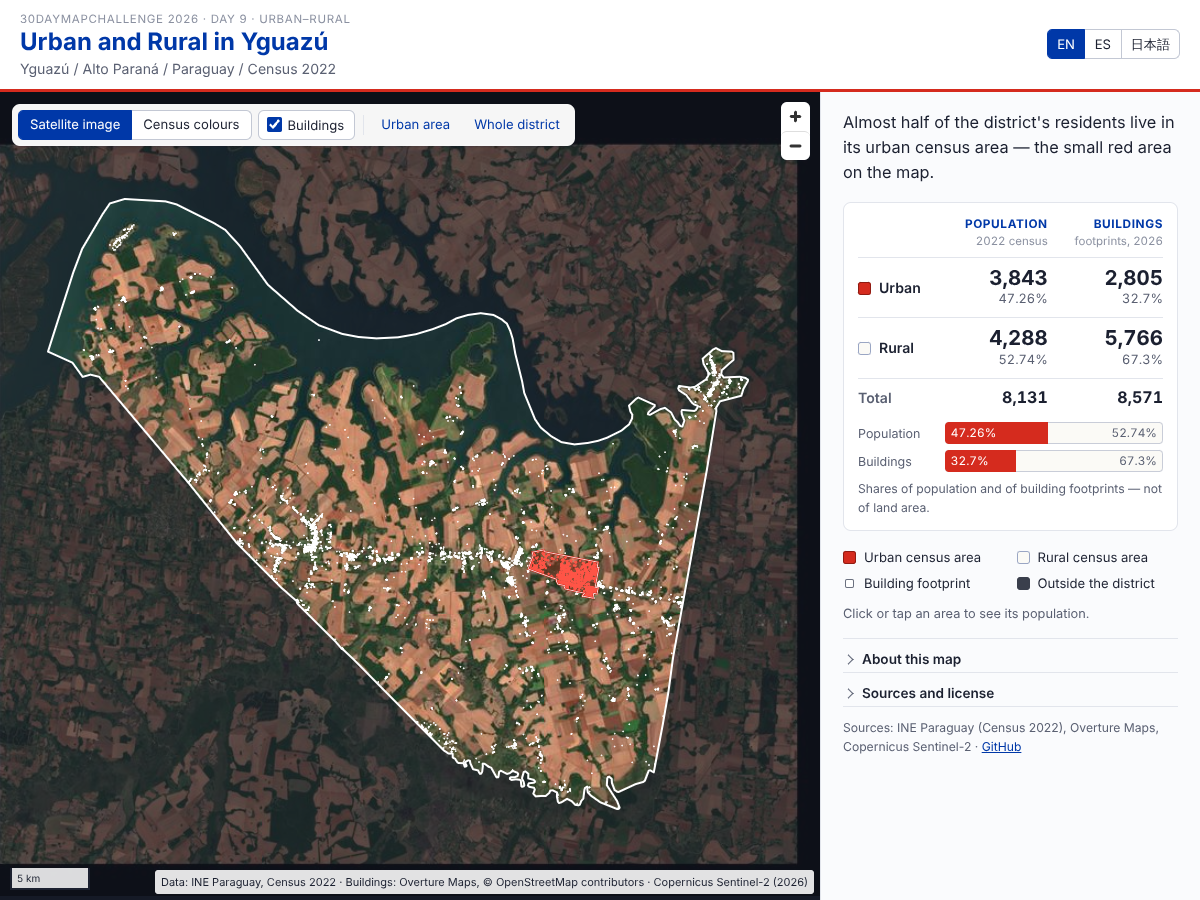
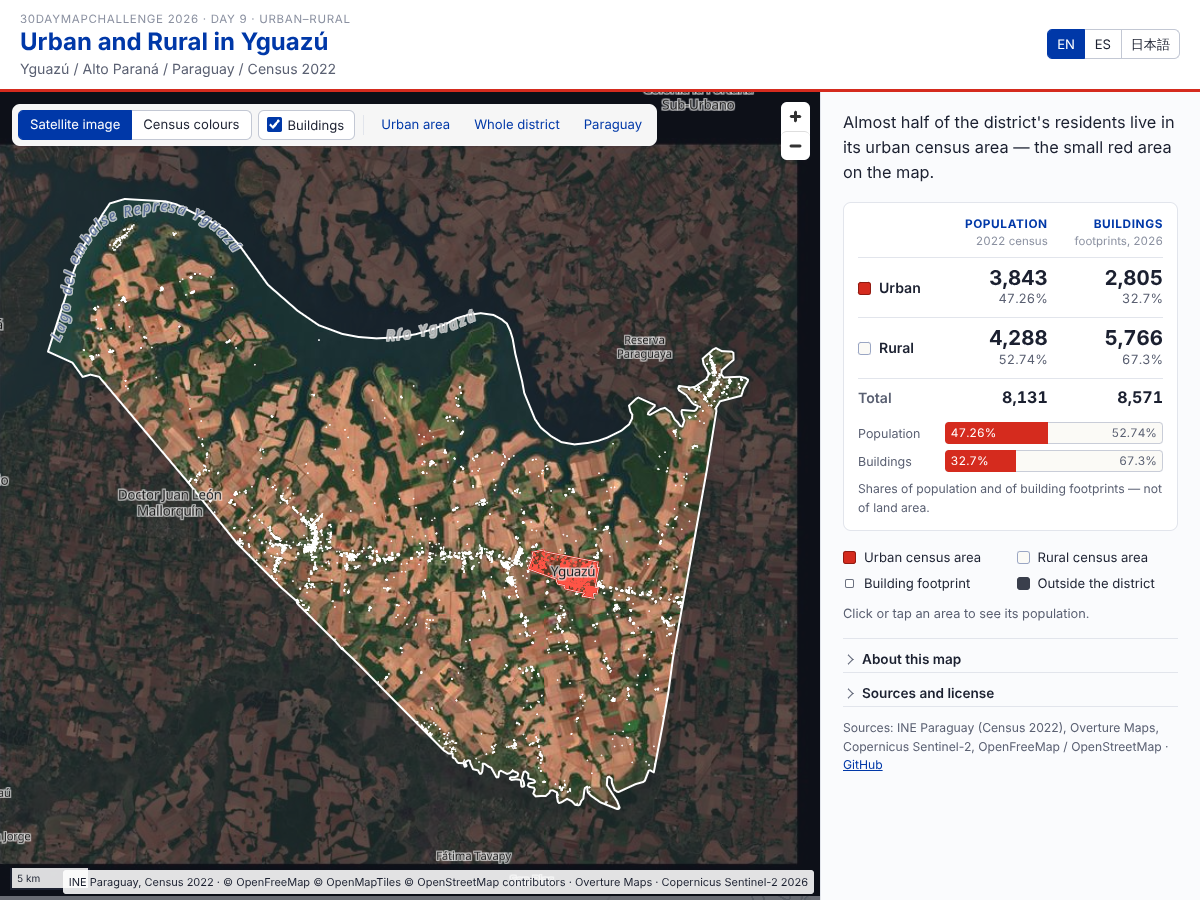
OpenFreeMapの背景地図を追加し、パラグアイ全体での位置を確認できるようにする
OpenStreetMapベースのPositronスタイルを背景に表示し、地名ラベルを自前の層の
上に置く。区分の色表示では農村区域を半透明にし、地区外を淡くする。パラグアイ
全体に引くボタンと位置の印を追加。背景地図が読めない場合は背景なしで続ける。
クレジットを短くし、README・画面キャプチャを更新。

diff --git a/src/main.ts b/src/main.ts
@@ -31,6 +31,11 @@ const C = {
   satUrbanBuilding: "#ff5446",
 };
 const SATELLITE_TILES = `${new URL(import.meta.env.BASE_URL, location.href).href}tiles/s2-20260926/{z}/{x}/{y}.jpg`;
+// 背景地図：OpenFreeMap の Positron（OpenStreetMap ベース、APIキー不要）
+const BASEMAP_STYLE = "https://tiles.openfreemap.org/styles/positron";
+let basemapOk = false;
+// パラグアイ全体の範囲（位置確認用）
+const PARAGUAY_BOUNDS: LngLatBoundsLike = [[-62.65, -27.61], [-54.26, -19.29]];
 // タイルを作った範囲（地区の外接矩形 + 0.03°）
 const SATELLITE_BOUNDS: [number, number, number, number] = [-55.359, -25.6235, -54.8615, -25.2185];
 
@@ -184,7 +189,7 @@ const map = new maplibregl.Map({
   },
   center: [-55.11, -25.42],
   zoom: 9,
-  minZoom: 7,
+  minZoom: 4.5,
   maxZoom: 17,
   attributionControl: false,
   dragRotate: false,
@@ -212,7 +217,9 @@ function renderCredit() {
   if (!creditEl) return;
   const s = t();
   const parts = [s.attribution];
-  if (showBuildings && buildings) parts.push(s.attrBuildings);
+  if (basemapOk) parts.push(s.attrBasemap);
+  // OpenStreetMap の表記は背景地図の表記に含まれるので、建物では重ねて書かない
+  if (showBuildings && buildings) parts.push(basemapOk ? s.attrBuildingsShort : s.attrBuildings);
   if (view === "satellite") parts.push(s.attrSatellite);
   creditEl.textContent = parts.join(" · ");
 }
@@ -287,14 +294,19 @@ function applyView() {
   if (!map.getLayer("area-fill")) return;
   const sat = view === "satellite";
   map.setLayoutProperty("satellite", "visibility", sat ? "visible" : "none");
-  map.setLayoutProperty("outside-mask", "visibility", sat ? "visible" : "none");
-  // 衛星写真の範囲外は暗い地にして、画像の端が目立たないようにする
-  map.setPaintProperty("bg", "background-color", sat ? "#151a26" : C.outside);
+  map.setLayoutProperty("outside-mask", "visibility", "visible");
+  // 地区外のマスク：衛星写真では暗く、区分の色では背景地図を淡くかすませる
+  map.setPaintProperty("outside-mask", "fill-color", sat ? "#151a26" : "#c4c8d2");
+  map.setPaintProperty("outside-mask", "fill-opacity", sat ? 0.62 : basemapOk ? 0.35 : 0);
   map.setPaintProperty("area-fill", "fill-color", ["case", isUrban, C.red, C.rural]);
+  // 区分の色：背景地図があれば農村を半透明にして、道路や貯水池が透けて見えるようにする
+  const ruralOpacity = basemapOk ? 0.62 : 1;
   map.setPaintProperty(
     "area-fill",
     "fill-opacity",
-    sat ? ["case", isUrban, ["case", isSelected, 0.45, 0.3], ["case", isSelected, 0.18, 0]] : 1,
+    sat
+      ? ["case", isUrban, ["case", isSelected, 0.45, 0.3], ["case", isSelected, 0.18, 0]]
+      : ["case", isUrban, 1, ["case", isSelected, Math.min(1, ruralOpacity + 0.2), ruralOpacity]],
   );
   map.setPaintProperty("area-line", "line-color", ["case", isUrban, sat ? C.red : C.redDark, sat ? "#ffffff" : C.ruralLine]);
   map.setPaintProperty("district-outline", "line-color", sat ? "#ffffff" : C.blue);
@@ -340,8 +352,34 @@ function buildingPoints(b: BuildingCollection): GeoJSON.FeatureCollection<GeoJSO
   };
 }
 
+// 背景地図のスタイルを読み込む。失敗したら背景なしの地図で続ける（国勢調査の地図は表示する）
+async function loadBasemap(): Promise<void> {
+  const loaded = () => new Promise<void>((res) => (map.loaded() ? res() : map.once("load", () => res())));
+  try {
+    const res = await fetch(BASEMAP_STYLE, { signal: AbortSignal.timeout(10000) });
+    if (!res.ok) throw new Error(`HTTP ${res.status}`);
+    const style = await res.json();
+    await loaded();
+    const styled = new Promise<void>((r) => map.once("style.load", () => r()));
+    map.setStyle(style);
+    await styled;
+    // 背景地図の建物は Overture の建物と重複するので隠す
+    if (map.getLayer("building")) map.setLayoutProperty("building", "visibility", "none");
+    basemapOk = true;
+  } catch (e) {
+    console.warn("Basemap unavailable; continuing without it", e);
+    await loaded();
+  }
+}
+
+// 自前の層は背景地図のラベルより下に入れ、地名が読めるようにする
+let labelsBelow: string | undefined;
+function addLayer(layer: maplibregl.AddLayerObject) {
+  map.addLayer(layer, labelsBelow);
+}
+
 async function start() {
-  const mapReady = new Promise<void>((res) => (map.loaded() ? res() : map.once("load", () => res())));
+  const mapReady = loadBasemap();
   const buildingsPromise = loadBuildings().catch((e) => {
     console.error(e);
     buildingError = e;
@@ -363,7 +401,8 @@ async function start() {
   const urban: AreaCollection = { ...areas, features: areas.features.filter((f) => f.properties.area_type === "urban") };
   const [uw, us, ue, un] = bboxOf(urban);
   urbanBounds = [[uw, us], [ue, un]];
-  map.setMaxBounds([[w - 0.6, s - 0.45], [e + 0.6, n + 0.45]]);
+  map.setMaxBounds([[-66, -30.5], [-51, -16.5]]);
+  labelsBelow = map.getStyle().layers.find((l) => l.type === "symbol")?.id;
 
   map.addSource("satellite", {
     type: "raster",
@@ -373,9 +412,9 @@ async function start() {
     maxzoom: 14,
     bounds: SATELLITE_BOUNDS,
   });
-  map.addLayer({ id: "satellite", type: "raster", source: "satellite", layout: { visibility: "none" } });
+  addLayer({ id: "satellite", type: "raster", source: "satellite", layout: { visibility: "none" } });
   map.addSource("mask", { type: "geojson", data: outsideMask(areas) });
-  map.addLayer({
+  addLayer({
     id: "outside-mask",
     type: "fill",
     source: "mask",
@@ -383,12 +422,12 @@ async function start() {
     paint: { "fill-color": "#151a26", "fill-opacity": 0.62 },
   });
   map.addSource("areas", { type: "geojson", data: areas });
-  map.addLayer({ id: "area-fill", type: "fill", source: "areas", paint: { "fill-color": C.rural } });
+  addLayer({ id: "area-fill", type: "fill", source: "areas", paint: { "fill-color": C.rural } });
   map.addSource("buildings", { type: "geojson", data: { type: "FeatureCollection", features: [] } });
   // 建物：拡大時は輪郭、広域では小さすぎて見えないため点で分布を示す
-  map.addLayer({ id: "buildings", type: "fill", source: "buildings", minzoom: 12.5, paint: { "fill-color": C.buildingRural } });
+  addLayer({ id: "buildings", type: "fill", source: "buildings", minzoom: 12.5, paint: { "fill-color": C.buildingRural } });
   map.addSource("building-points", { type: "geojson", data: { type: "FeatureCollection", features: [] } });
-  map.addLayer({
+  addLayer({
     id: "building-points",
     type: "circle",
     source: "building-points",
@@ -398,7 +437,7 @@ async function start() {
       "circle-color": C.buildingRural,
     },
   });
-  map.addLayer({
+  addLayer({
     id: "area-line",
     type: "line",
     source: "areas",
@@ -418,16 +457,37 @@ async function start() {
   });
   // 地区の外周（都市・農村の共有辺を除いた線＝地区界）
   map.addSource("outline", { type: "geojson", data: districtOutline(areas) });
-  map.addLayer({
+  addLayer({
     id: "district-outline",
     type: "line",
     source: "outline",
     layout: { "line-join": "round", "line-cap": "round" },
     paint: { "line-color": C.blue, "line-width": 2 },
   });
+  // 広域表示（パラグアイ全体など）では地区が小さすぎるので、位置を赤い印で示す
+  const cx = (w + e) / 2, cy = (s + n) / 2;
+  map.addSource("locator", { type: "geojson", data: { type: "Feature", properties: { name: "Yguazú" }, geometry: { type: "Point", coordinates: [cx, cy] } } });
+  map.addLayer({
+    id: "locator",
+    type: "circle",
+    source: "locator",
+    maxzoom: 8.5,
+    paint: { "circle-radius": 7, "circle-color": C.red, "circle-stroke-color": "#ffffff", "circle-stroke-width": 2 },
+  });
+  if (basemapOk) {
+    map.addLayer({
+      id: "locator-label",
+      type: "symbol",
+      source: "locator",
+      maxzoom: 8.5,
+      layout: { "text-field": ["get", "name"], "text-font": ["Noto Sans Bold"], "text-size": 14, "text-offset": [0, 1.3], "text-anchor": "top" },
+      paint: { "text-color": C.redDark, "text-halo-color": "#ffffff", "text-halo-width": 1.6 },
+    });
+  }
   map.on("error", (ev) => {
-    // 衛星タイルの欠落は地図全体のエラーにしない
-    if ((ev as { sourceId?: string }).sourceId !== "satellite") console.error(ev.error);
+    // 衛星タイル・背景地図タイルの欠落は地図全体のエラーにしない
+    const id = (ev as { sourceId?: string }).sourceId;
+    if (id !== "satellite" && id !== "openmaptiles" && id !== "ne2_shaded") console.error(ev.error);
   });
 
   map.on("click", "area-fill", (ev) => {
@@ -447,7 +507,12 @@ async function start() {
   map.on("mouseenter", "area-fill", () => (map.getCanvas().style.cursor = "pointer"));
   map.on("mouseleave", "area-fill", () => (map.getCanvas().style.cursor = ""));
 
-  for (const id of ["zoom-urban", "reset", "view-census", "view-satellite"]) ($(id) as HTMLButtonElement).disabled = false;
+  for (const id of ["zoom-urban", "reset", "locate", "view-census", "view-satellite"]) ($(id) as HTMLButtonElement).disabled = false;
+  $("locate").onclick = () => {
+    popup?.remove();
+    setSelected(null);
+    map.fitBounds(PARAGUAY_BOUNDS, { padding: fitPadding() });
+  };
   $("zoom-urban").onclick = () => urbanBounds && map.fitBounds(urbanBounds, { padding: fitPadding(), maxZoom: 15 });
   $("reset").onclick = () => {
     popup?.remove();

diff --git a/src/i18n.ts b/src/i18n.ts
@@ -8,12 +8,16 @@ export const LANGS: { code: Lang; label: string }[] = [
 
 export const TEXT = {
   en: {
+    locate: "Paraguay",
+    attrBasemap: "© OpenFreeMap © OpenMapTiles © OpenStreetMap contributors",
+    attrBuildingsShort: "Overture Maps",
+    srcBasemap: "Basemap: OpenFreeMap (Positron style), © OpenMapTiles, data © OpenStreetMap contributors (ODbL). Loaded from tiles.openfreemap.org; the census map still works if it is unavailable.",
     colPopulation: "Population",
     colPopulationNote: "2022 census",
     colBuildings: "Buildings",
     colBuildingsNote: "footprints, 2026",
     barsNote: "Shares of population and of building footprints — not of land area.",
-    srcShort: "Sources: INE Paraguay (Census 2022), Overture Maps, Copernicus Sentinel-2",
+    srcShort: "Sources: INE Paraguay (Census 2022), Overture Maps, Copernicus Sentinel-2, OpenFreeMap / OpenStreetMap",
     zoomUrban: "Urban area",
     docTitle: "Urban and Rural in Yguazú — Census 2022",
     title: "Urban and Rural in Yguazú",
@@ -32,8 +36,8 @@ export const TEXT = {
     note4: "The satellite image is a Sentinel-2 true-colour image from 26 September 2026 (10 m pixels), shown only as a background. The urban and rural areas were not derived from it.",
     srcSatellite: "Satellite image: contains modified Copernicus Sentinel data 2026 (Sentinel-2 L2A, 26 September 2026), obtained through Element 84 Earth Search; reprojected, mosaicked and tiled.",
     srcBuildings: "Buildings: Overture Maps Foundation, release 2026-10-21.0 (ODbL), including © OpenStreetMap contributors, Google Open Buildings (CC BY 4.0) and Microsoft ML Building Footprints (ODbL); clipped to the district and assigned to urban or rural.",
-    attrBuildings: "Buildings: Overture Maps, © OpenStreetMap contributors",
-    attrSatellite: "Copernicus Sentinel-2 (2026)",
+    attrBuildings: "Overture Maps, © OpenStreetMap contributors",
+    attrSatellite: "Copernicus Sentinel-2 2026",
     urban: "Urban",
     rural: "Rural",
     total: "Total",
@@ -56,7 +60,7 @@ export const TEXT = {
     processing:
       "Processing: 28 census areas of district 1009 merged into 1 urban and 1 rural area, reprojected from EPSG:4674 to WGS 84. Retrieved and processed November 2026.",
     license: "Used under Paraguay's public information use license. This is not an official INE product.",
-    attribution: "Data: INE Paraguay, Census 2022",
+    attribution: "INE Paraguay, Census 2022",
     loading: "Loading census areas…",
     errorTitle: "The data could not be loaded.",
     errorBody: "No map or numbers are shown. Reload the page to try again.",
@@ -64,12 +68,16 @@ export const TEXT = {
     popupShare: "of the district population",
   },
   es: {
+    locate: "Paraguay",
+    attrBasemap: "© OpenFreeMap © OpenMapTiles © colaboradores de OpenStreetMap",
+    attrBuildingsShort: "Overture Maps",
+    srcBasemap: "Mapa base: OpenFreeMap (estilo Positron), © OpenMapTiles, datos © colaboradores de OpenStreetMap (ODbL). Se carga desde tiles.openfreemap.org; el mapa censal funciona aunque no esté disponible.",
     colPopulation: "Población",
     colPopulationNote: "Censo 2022",
     colBuildings: "Edificaciones",
     colBuildingsNote: "huellas, 2026",
     barsNote: "Proporciones de población y de edificaciones, no de superficie.",
-    srcShort: "Fuentes: INE Paraguay (Censo 2022), Overture Maps, Copernicus Sentinel-2",
+    srcShort: "Fuentes: INE Paraguay (Censo 2022), Overture Maps, Copernicus Sentinel-2, OpenFreeMap / OpenStreetMap",
     zoomUrban: "Área urbana",
     docTitle: "Urbano y rural en Yguazú — Censo 2022",
     title: "Urbano y rural en Yguazú",
@@ -88,8 +96,8 @@ export const TEXT = {
     note4: "La imagen satelital es una imagen en color verdadero de Sentinel-2 del 26 de septiembre de 2026 (píxeles de 10 m) y se muestra solo como fondo. Las áreas urbana y rural no se obtuvieron de ella.",
     srcSatellite: "Imagen satelital: contiene datos modificados de Copernicus Sentinel 2026 (Sentinel-2 L2A, 26 de septiembre de 2026), obtenidos a través de Element 84 Earth Search; reproyectados, unidos en mosaico y divididos en teselas.",
     srcBuildings: "Edificaciones: Overture Maps Foundation, versión 2026-10-21.0 (ODbL), incluye © colaboradores de OpenStreetMap, Google Open Buildings (CC BY 4.0) y Microsoft ML Building Footprints (ODbL); recortadas al distrito y asignadas al área urbana o rural.",
-    attrBuildings: "Edificaciones: Overture Maps, © colaboradores de OpenStreetMap",
-    attrSatellite: "Copernicus Sentinel-2 (2026)",
+    attrBuildings: "Overture Maps, © colaboradores de OpenStreetMap",
+    attrSatellite: "Copernicus Sentinel-2 2026",
     urban: "Urbana",
     rural: "Rural",
     total: "Total",
@@ -112,7 +120,7 @@ export const TEXT = {
     processing:
       "Procesamiento: las 28 áreas censales del distrito 1009 se unificaron en 1 área urbana y 1 rural, y se reproyectaron de EPSG:4674 a WGS 84. Descarga y procesamiento: noviembre de 2026.",
     license: "Uso conforme a la licencia de uso de información pública de Paraguay. No es un producto oficial del INE.",
-    attribution: "Datos: INE Paraguay, Censo 2022",
+    attribution: "INE Paraguay, Censo 2022",
     loading: "Cargando áreas censales…",
     errorTitle: "No se pudieron cargar los datos.",
     errorBody: "No se muestran el mapa ni las cifras. Vuelva a cargar la página para intentarlo de nuevo.",
@@ -120,12 +128,16 @@ export const TEXT = {
     popupShare: "de la población del distrito",
   },
   ja: {
+    locate: "パラグアイ全体",
+    attrBasemap: "© OpenFreeMap © OpenMapTiles © OpenStreetMap contributors",
+    attrBuildingsShort: "Overture Maps",
+    srcBasemap: "背景地図：OpenFreeMap（Positronスタイル）、© OpenMapTiles、データ © OpenStreetMap contributors（ODbL）。tiles.openfreemap.orgから読み込む。読み込めない場合も国勢調査の地図は表示する。",
     colPopulation: "人口",
     colPopulationNote: "2022年国勢調査",
     colBuildings: "建物",
     colBuildingsNote: "2026年データ",
     barsNote: "人口と建物数の割合で、面積の割合ではない。",
-    srcShort: "出典：INE Paraguay（2022年国勢調査）、Overture Maps、Copernicus Sentinel-2",
+    srcShort: "出典：INE Paraguay（2022年国勢調査）、Overture Maps、Copernicus Sentinel-2、OpenFreeMap / OpenStreetMap",
     zoomUrban: "都市区域へ",
     docTitle: "Yguazúの都市と農村 — 2022年国勢調査",
     title: "Yguazúの都市と農村",
@@ -144,8 +156,8 @@ export const TEXT = {
     note4: "衛星写真は2026年9月26日のSentinel-2真色画像（解像度10m）で、背景として表示しているだけ。都市・農村の区分は衛星写真から作ったものではない。",
     srcSatellite: "衛星写真：Copernicus Sentinel data 2026を加工（Sentinel-2 L2A、2026年9月26日）。Element 84 Earth Searchから取得し、再投影・モザイク・タイル化。",
     srcBuildings: "建物：Overture Maps Foundation、リリース2026-10-21.0（ODbL）。© OpenStreetMap contributors、Google Open Buildings（CC BY 4.0）、Microsoft ML Building Footprints（ODbL）を含む。地区で切り出し、都市・農村に振り分け。",
-    attrBuildings: "建物：Overture Maps, © OpenStreetMap contributors",
-    attrSatellite: "Copernicus Sentinel-2（2026年）",
+    attrBuildings: "Overture Maps, © OpenStreetMap contributors",
+    attrSatellite: "Copernicus Sentinel-2 2026年",
     urban: "都市",
     rural: "農村",
     total: "合計",
@@ -168,7 +180,7 @@ export const TEXT = {
     processing:
       "加工：地区1009の28区域を都市1・農村1に統合し、EPSG:4674からWGS 84へ変換。2026年11月取得・加工。",
     license: "パラグアイ公共情報利用ライセンスに基づき利用。INEの公式成果物ではない。",
-    attribution: "データ：INE Paraguay 2022年国勢調査",
+    attribution: "INE Paraguay 2022年国勢調査",
     loading: "国勢調査区域を読み込み中…",
     errorTitle: "データを読み込めませんでした。",
     errorBody: "地図と数値は表示していません。ページを再読み込みしてください。",

diff --git a/index.html b/index.html
@@ -28,6 +28,7 @@
           <span class="tools-sep" aria-hidden="true"></span>
           <button type="button" class="quiet" id="zoom-urban" data-t="zoomUrban" disabled></button>
           <button type="button" class="quiet" id="reset" data-t="reset" disabled></button>
+          <button type="button" class="quiet" id="locate" data-t="locate" disabled></button>
         </div>
         <div id="status" class="status" role="status" aria-live="polite"></div>
       </main>
@@ -107,11 +108,14 @@
           <p data-t="license"></p>
           <p data-t="srcBuildings"></p>
           <p data-t="srcSatellite"></p>
+          <p data-t="srcBasemap"></p>
           <p class="links">
             <a href="https://www.ine.gov.py/microdatos/cartografia-digital-2022.php" target="_blank" rel="noopener">INE Cartografía digital 2022</a>
             · <a href="https://www.ine.gov.py/microdatos/license.php" target="_blank" rel="noopener">INE License</a>
             · <a href="https://docs.overturemaps.org/attribution/" target="_blank" rel="noopener">Overture Maps</a>
             · <a href="https://www.openstreetmap.org/copyright" target="_blank" rel="noopener">OpenStreetMap</a>
+            · <a href="https://openfreemap.org/" target="_blank" rel="noopener">OpenFreeMap</a>
+            · <a href="https://openmaptiles.org/" target="_blank" rel="noopener">OpenMapTiles</a>
             · <a href="https://sentinels.copernicus.eu/documents/247904/690755/Sentinel_Data_Legal_Notice" target="_blank" rel="noopener">Copernicus Sentinel data</a>
           </p>
         </details>

diff --git a/README.md b/README.md
@@ -33,6 +33,7 @@
 - INE. [Censo 2022 – Estructura de la población por edad y sexo](https://www.ine.gov.py/Publicaciones/Biblioteca/documento/257/Censo%202022%20-%20Estructura%20de%20la%20poblacion%20por%20edad%20y%20sexo.pdf)：Cuadro A1・A13 の Yguazú 都市・農村人口。PDFの値を確認して入力した（自動取得したCSVではない）。
 - AREAコードの意味（`1=URBANA`、`6=RURAL`）は、INEのRARに説明表が同梱されていないため、パラグアイ保健省ドメインの[公式コード表](https://vigicanpy.mspbs.gov.py/guia/site/CodeSystem-GeoTipoAreasPYCS.html)で補った。
 - 建物：[Overture Maps Foundation](https://docs.overturemaps.org/attribution/) リリース 2026-10-21.0 の buildings テーマ（ODbL）。OpenStreetMap（© OpenStreetMap contributors、ODbL）、Google Open Buildings（CC BY 4.0）、Microsoft ML Building Footprints（ODbL）を含む。
+- 背景地図：OpenFreeMap（Positron スタイル）、© OpenMapTiles、データ © OpenStreetMap contributors（ODbL）。
 - 衛星写真：Copernicus Sentinel-2 L2A の真色画像（TCI、10 m）。2026年9月26日撮影の4タイル（雲量0%）。[Element 84 Earth Search](https://earth-search.aws.element84.com/v1) から取得。「Contains modified Copernicus Sentinel data 2026」。
 - 取得・加工：国勢調査データは2026年11月6日、建物と衛星写真は2026年11月9日。
 
@@ -92,7 +93,9 @@ python scripts/s2-tiles.py work public/tiles/s2-20260926
 - 建物は拡大時（ズーム12.5以上）に輪郭、広域では建物ごとの点で表示する。
 - 初期表示は「衛星写真」＋建物。自前で作ったタイルを表示し、地区外を暗くする。都市区域は赤い半透明の面、建物は都市区域内を赤、農村区域を白で描く。
 - 「区分の色」表示では都市を赤、農村を白で塗り、地区外は無彩色の背景にする。
-- 外部の地図タイルサービスは使っていない。
+- 背景地図は [OpenFreeMap](https://openfreemap.org/) の Positron スタイル（OpenStreetMap ベース、APIキー不要・商用可）を `tiles.openfreemap.org` から読み込む。地名ラベルは自前の層より上に置き、背景地図に含まれる建物の層は Overture の建物と重複するため隠している。「区分の色」表示では農村区域を半透明にして道路や貯水池を透かし、地区外を淡くかすませる。
+- 背景地図を読み込めない場合（10秒で打ち切り）は背景なしで表示を続け、国勢調査の地図と数値は表示する。
+- 「Paraguay」（日本語では「パラグアイ全体」）ボタンで国全体に引き、地区の位置を赤い印と「Yguazú」のラベルで示す。
 - 配色はパラグアイの国旗の赤・白・青に寄せたが、国旗・国章そのものは使っていない（政府の公式作品と誤認させないため）。
 
 `npm run check` は Node.js で同じファイルを読み、人口合計8,131・比率・ハッシュ・CRS、建物の棟数と区分を確認し、`src/wkb.ts` の復号結果が hyparquet 内蔵の復号結果と一致することを検査する。衛星タイルがあることも確認する。
